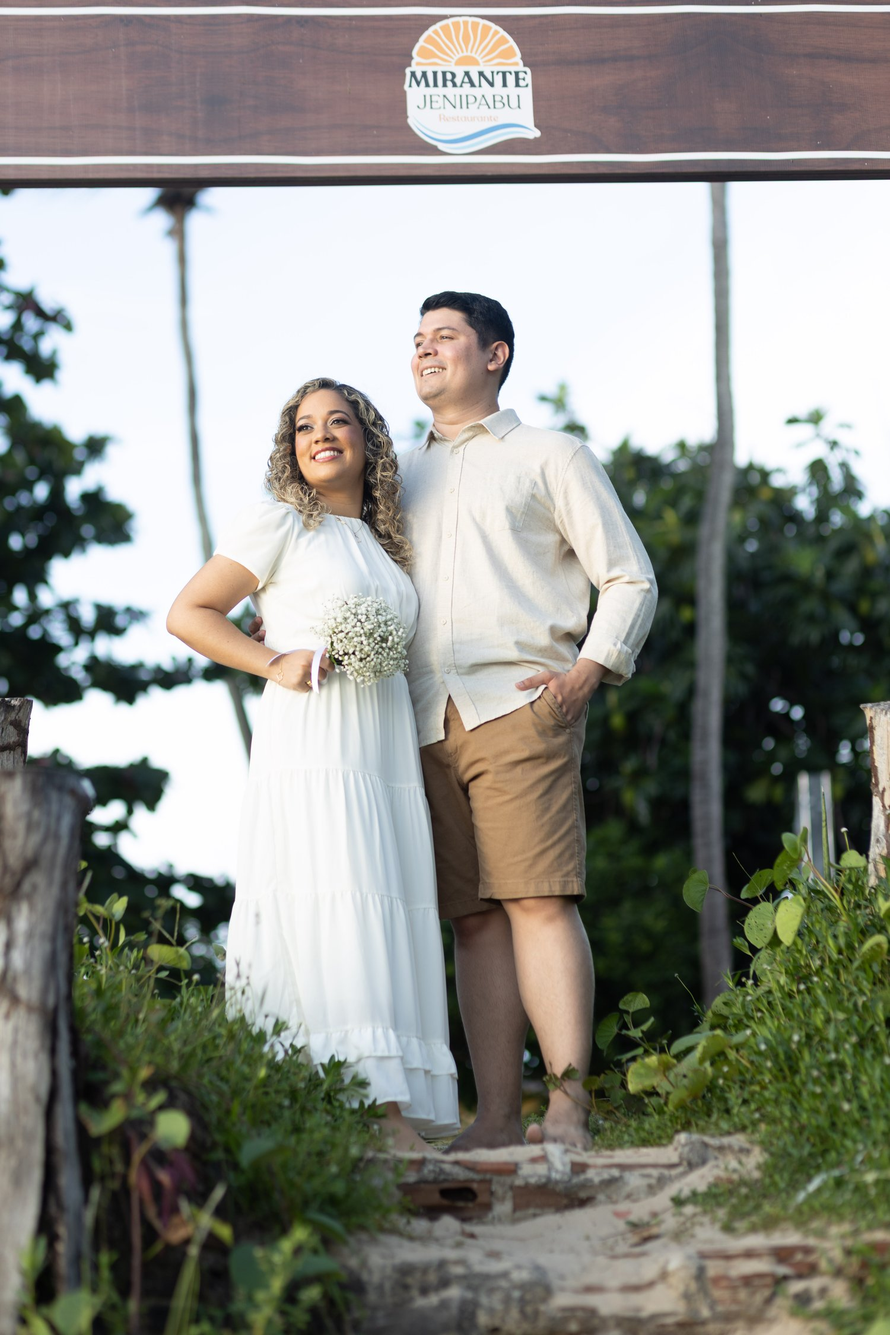
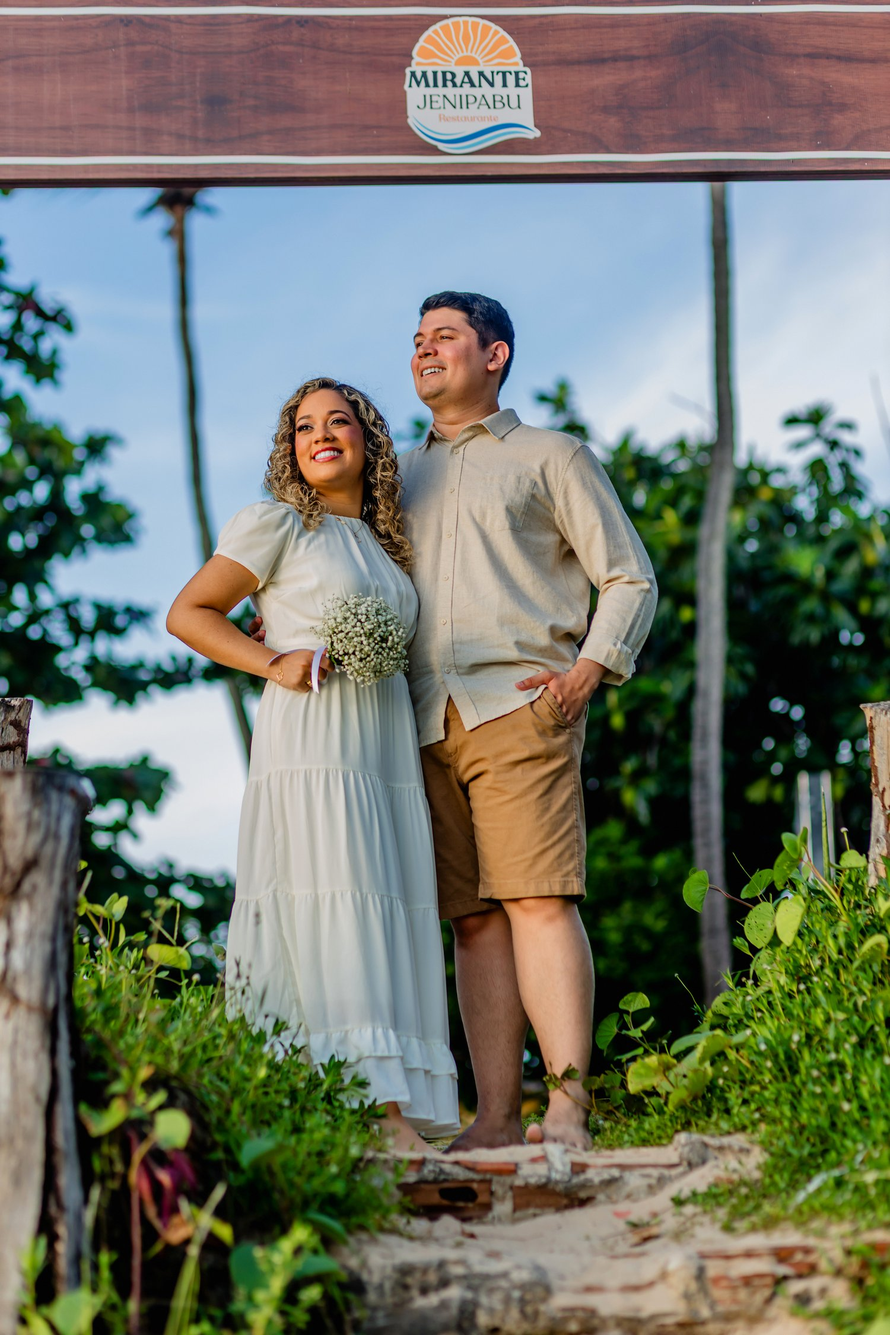
Reorganiza a galeria com 9 novas fotos em 3 fileiras
Linha 1: EWER9632, EWER9809, EWER9864
Linha 2: EWER9967, EWER9698, EWER9755
Linha 3: EWER9713, EWER9740, EWER9628

Fotos comprimidas de 11-15MB para 180-515KB cada. EWER9639 (usada como
fundo do hero) permanece intocada.

diff --git a/index.html b/index.html
@@ -149,12 +149,15 @@
     <p class="section-eyebrow">Momentos</p>
     <h2 class="section-title">Nossa Galeria</h2>
     <div class="gallery-grid">
-      <div class="gallery-item"><img src="assets/img/gallery/EWER9633.jpg" alt="Pedro e Genyze - pre-wedding" loading="lazy" /></div>
-      <div class="gallery-item"><img src="assets/img/gallery/EWER9812.jpg" alt="Pedro e Genyze - pre-wedding" loading="lazy" /></div>
+      <div class="gallery-item"><img src="assets/img/gallery/EWER9632.jpg" alt="Pedro e Genyze - pre-wedding" loading="lazy" /></div>
+      <div class="gallery-item"><img src="assets/img/gallery/EWER9809.jpg" alt="Pedro e Genyze - pre-wedding" loading="lazy" /></div>
       <div class="gallery-item"><img src="assets/img/gallery/EWER9864.jpg" alt="Pedro e Genyze - pre-wedding" loading="lazy" /></div>
-      <div class="gallery-item"><img src="assets/img/gallery/EWER9962.jpg" alt="Pedro e Genyze - pre-wedding" loading="lazy" /></div>
-      <div class="gallery-item"><img src="assets/img/gallery/EWER9697.jpg" alt="Pedro e Genyze - pre-wedding" loading="lazy" /></div>
+      <div class="gallery-item"><img src="assets/img/gallery/EWER9967.jpg" alt="Pedro e Genyze - pre-wedding" loading="lazy" /></div>
+      <div class="gallery-item"><img src="assets/img/gallery/EWER9698.jpg" alt="Pedro e Genyze - pre-wedding" loading="lazy" /></div>
       <div class="gallery-item"><img src="assets/img/gallery/EWER9755.jpg" alt="Pedro e Genyze - pre-wedding" loading="lazy" /></div>
+      <div class="gallery-item"><img src="assets/img/gallery/EWER9713.jpg" alt="Pedro e Genyze - pre-wedding" loading="lazy" /></div>
+      <div class="gallery-item"><img src="assets/img/gallery/EWER9740.jpg" alt="Pedro e Genyze - pre-wedding" loading="lazy" /></div>
+      <div class="gallery-item"><img src="assets/img/gallery/EWER9628.jpg" alt="Pedro e Genyze - pre-wedding" loading="lazy" /></div>
     </div>
   </section>
 
